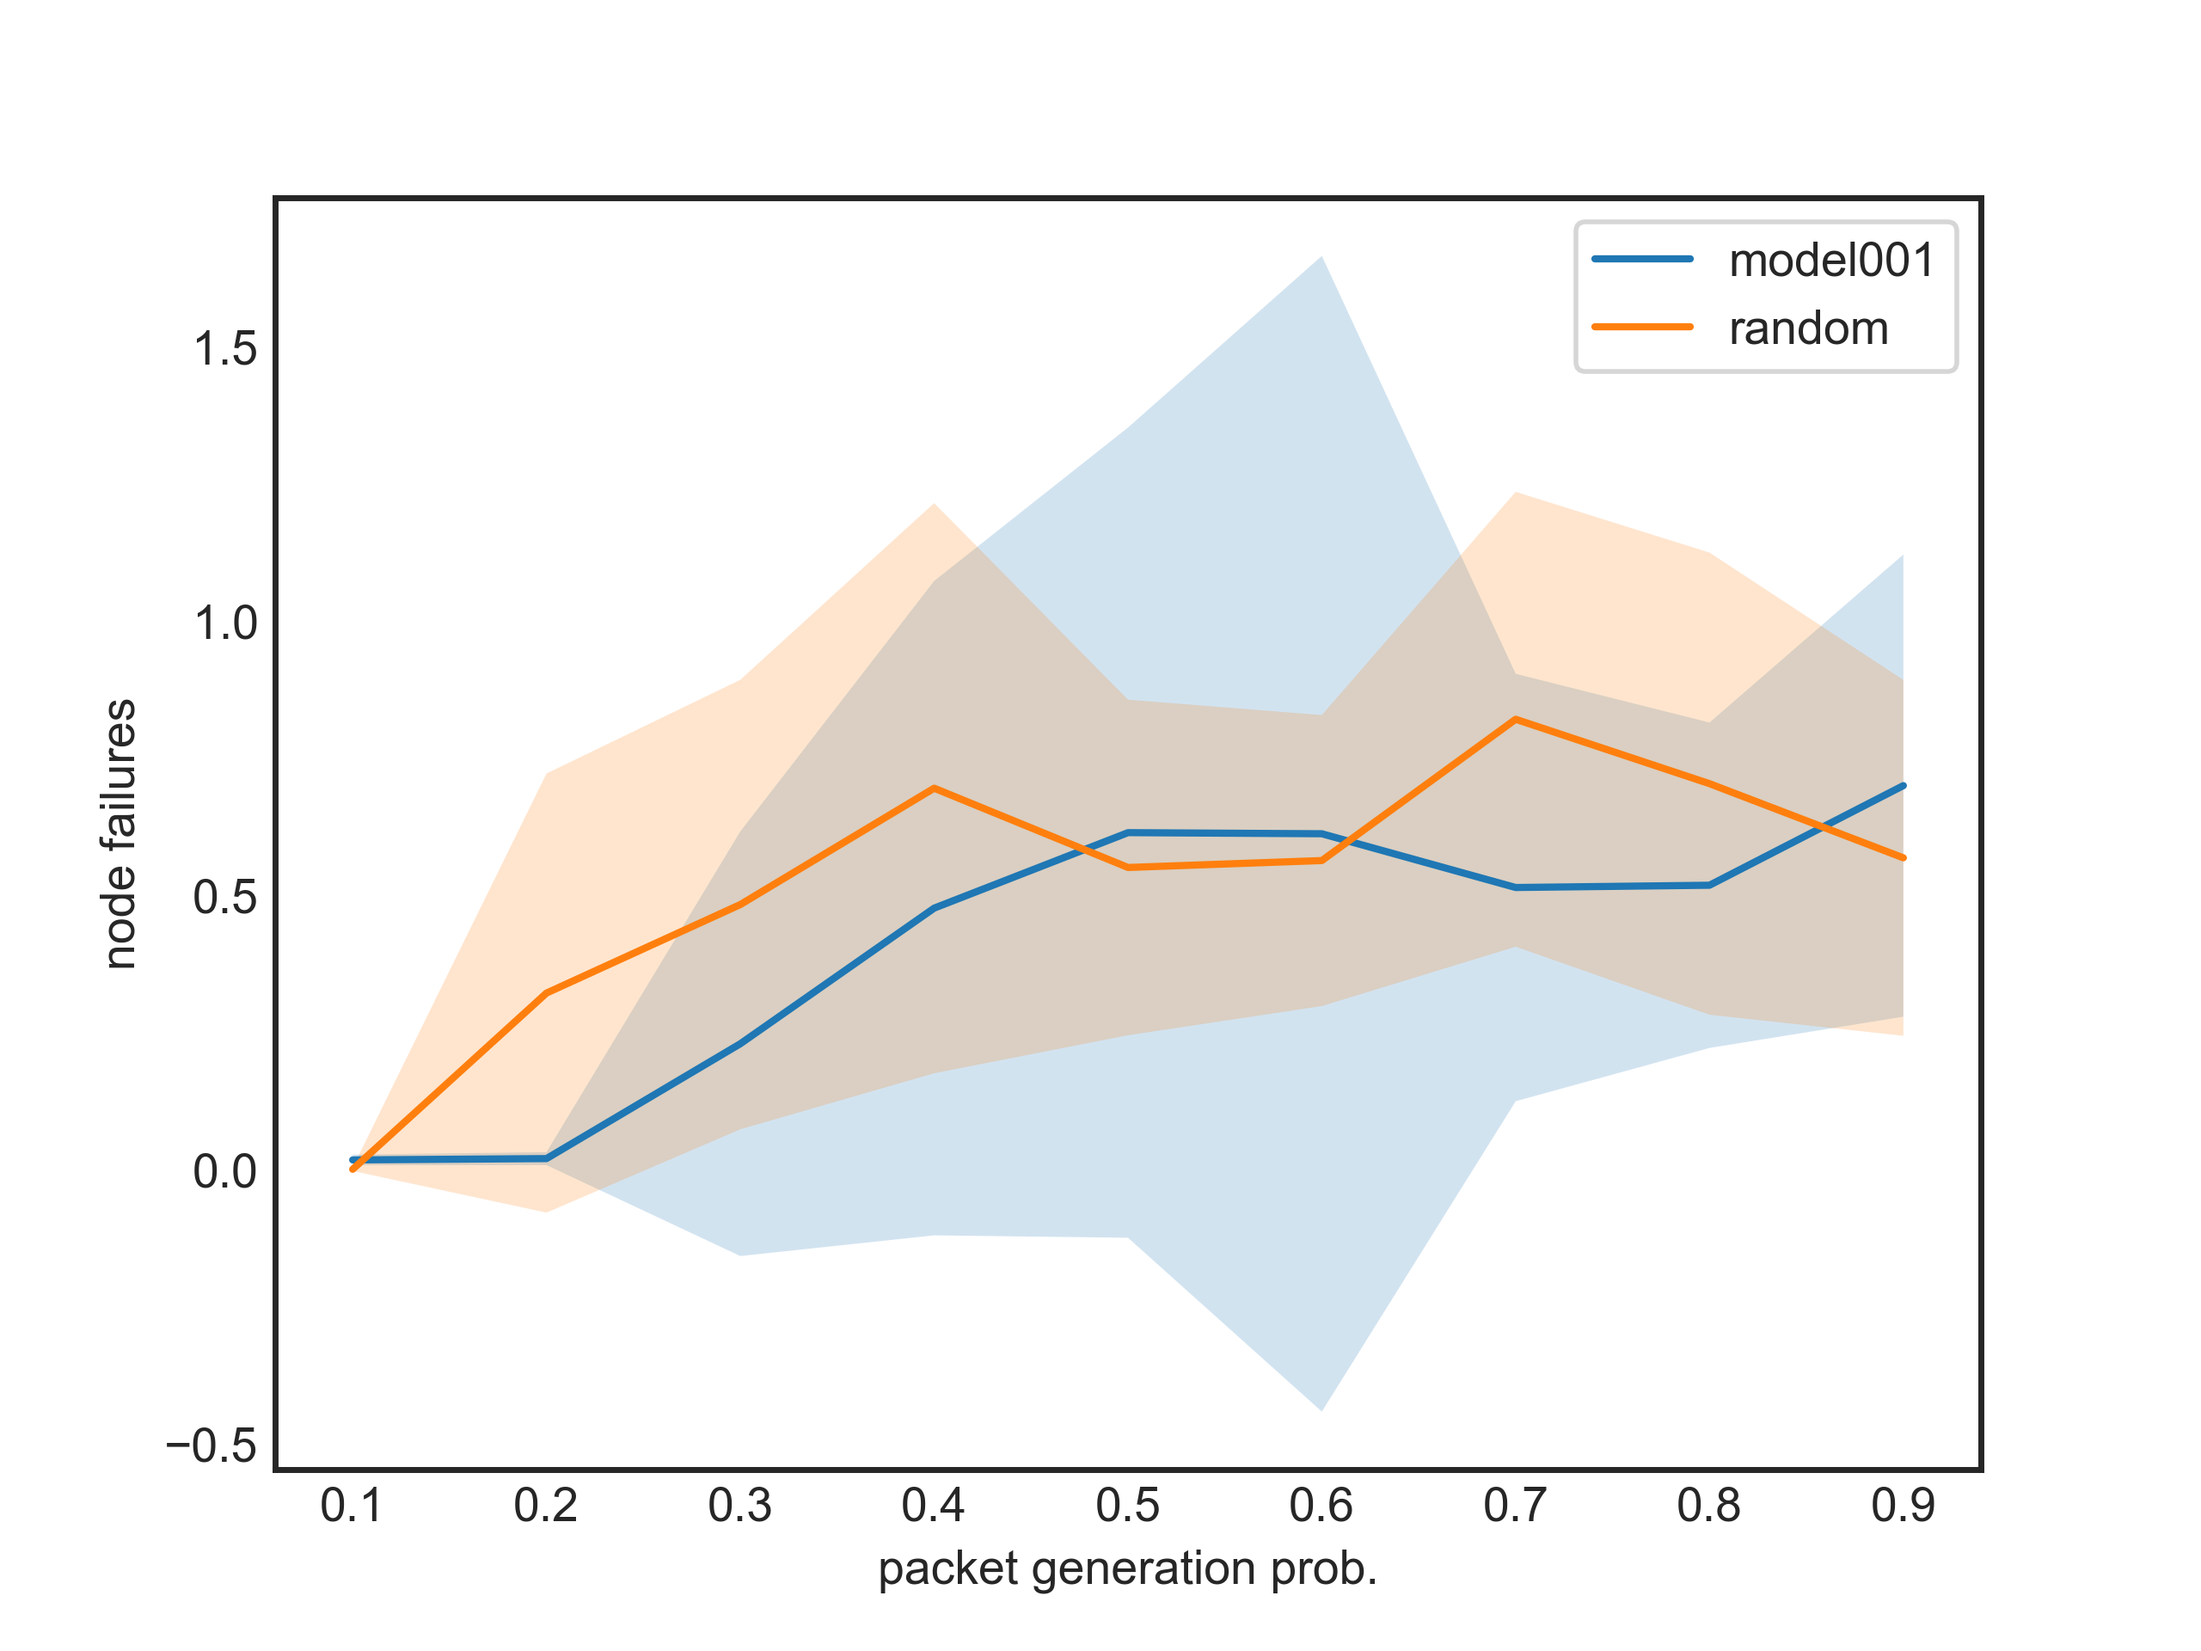
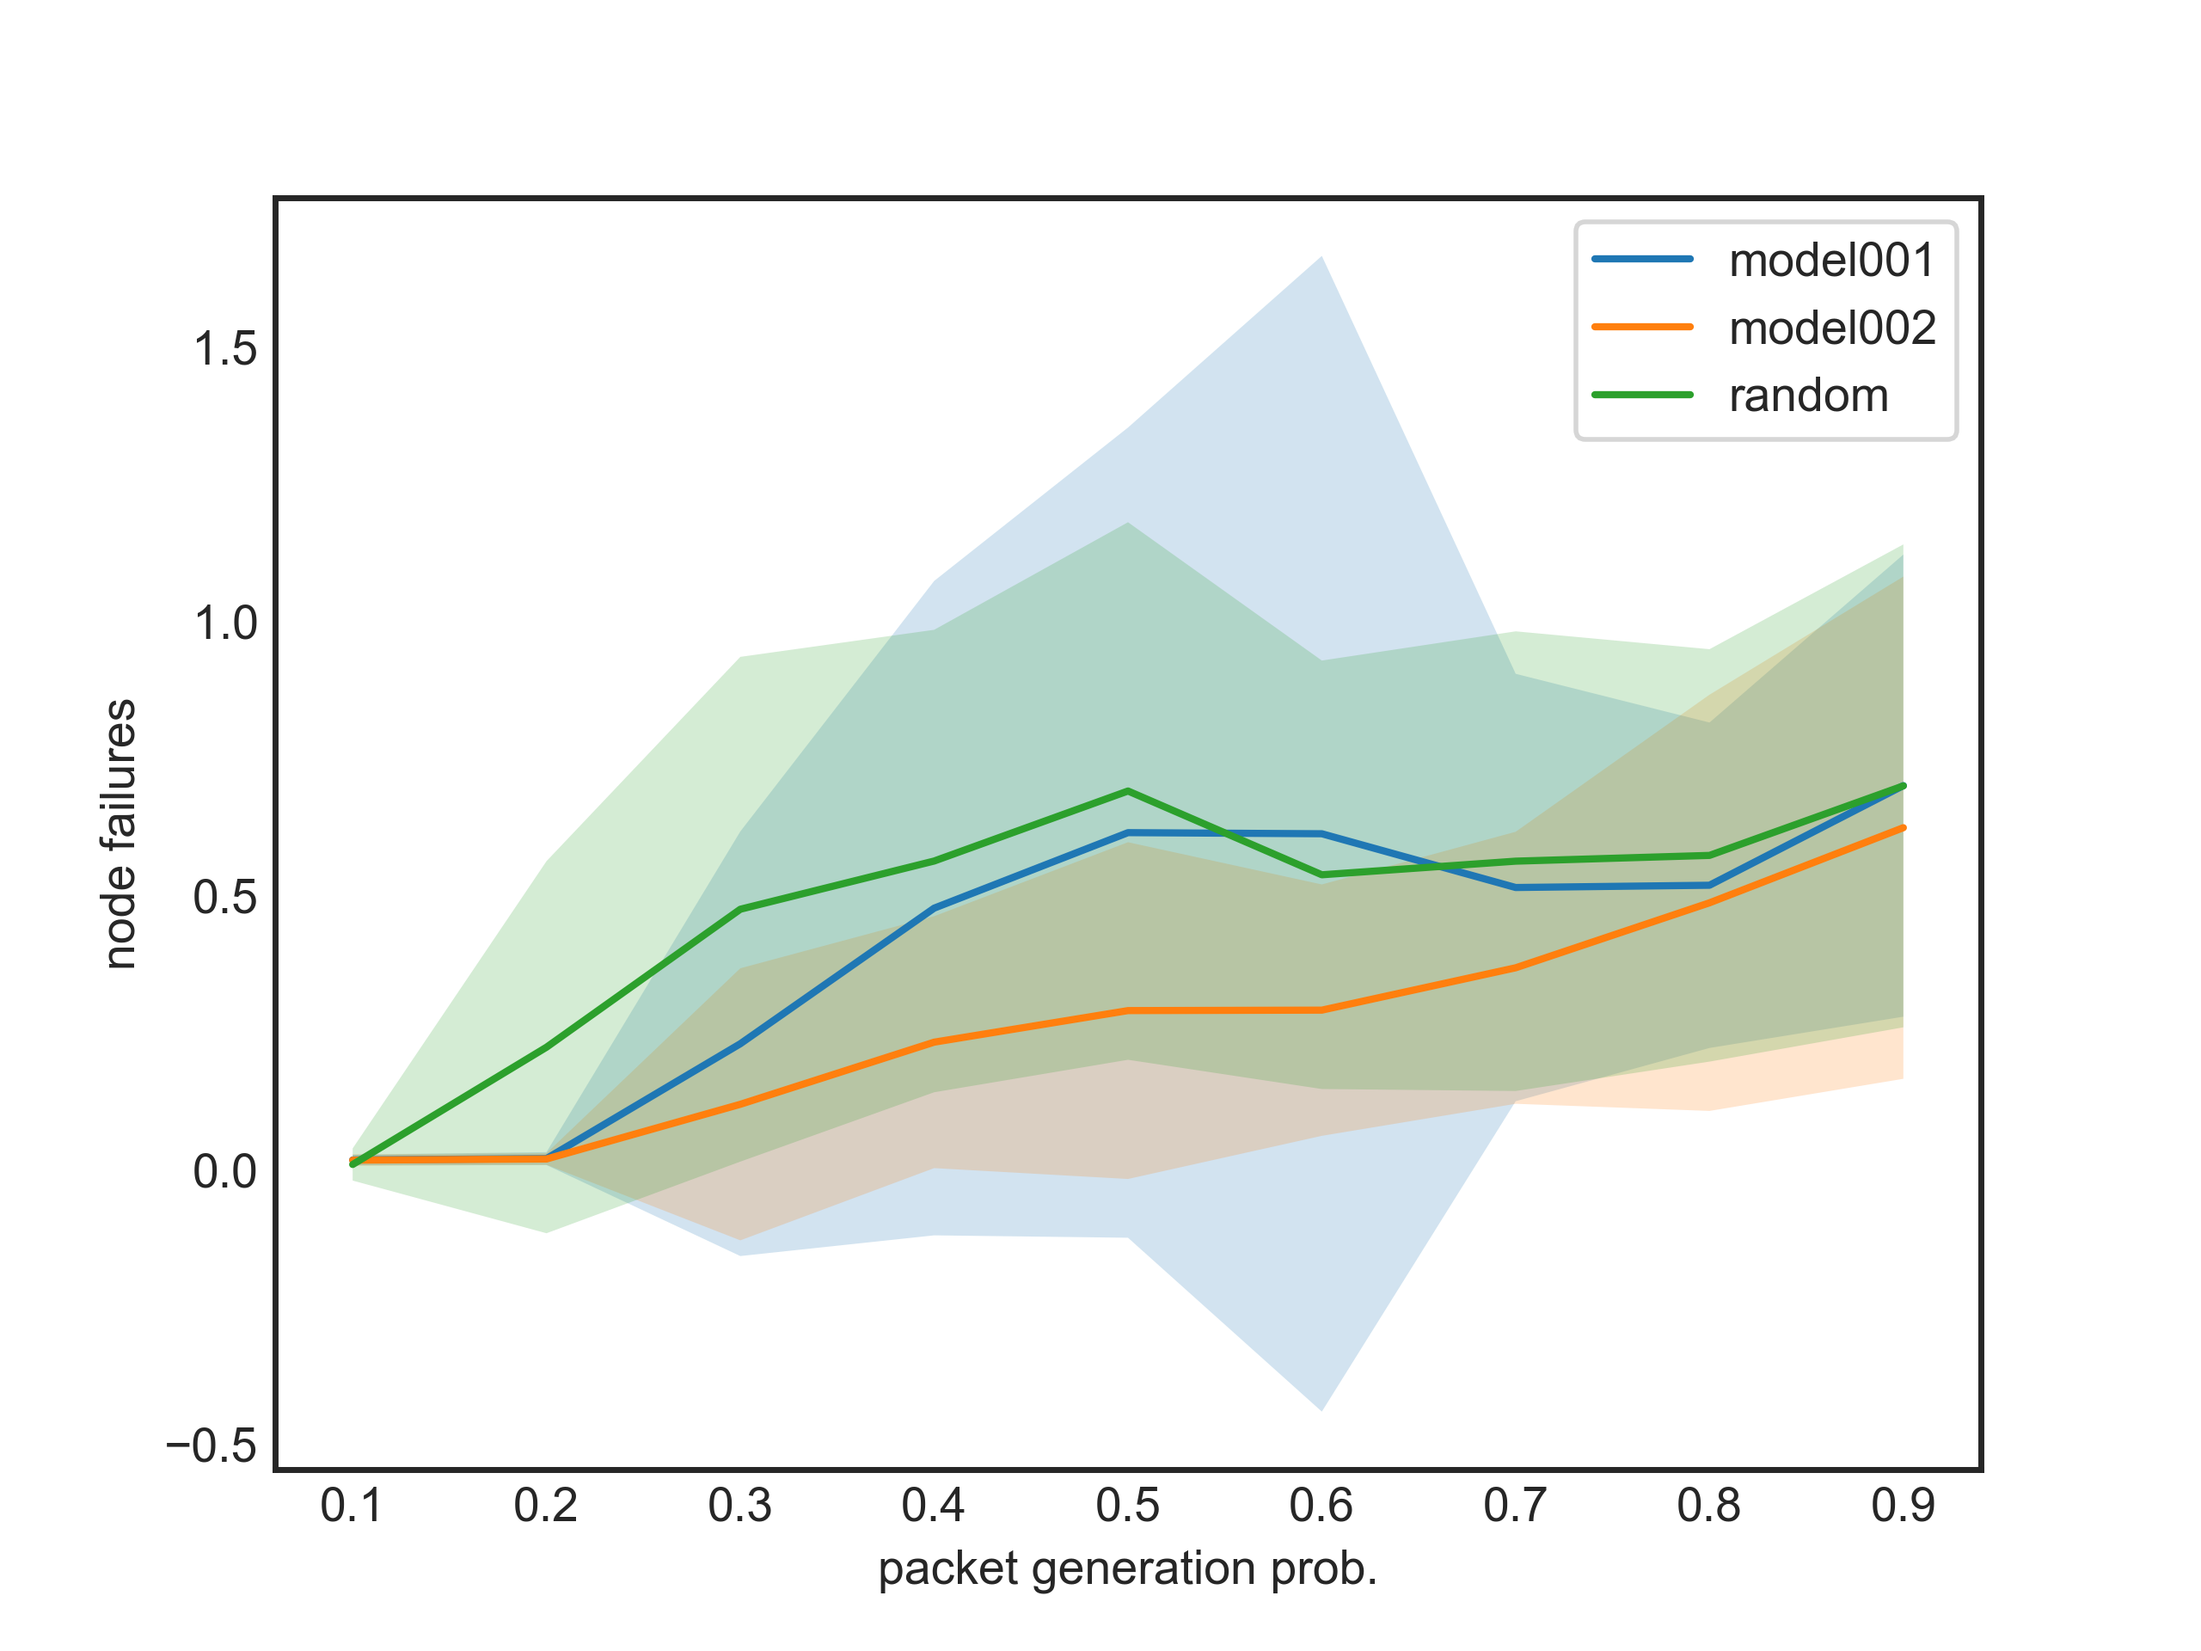
add model002 results

Changed region(s): [[0.1562, 0.2812, 0.875, 0.75], [0.7188, 0.1875, 0.9062, 0.25]]

diff --git a/ept_config.py b/ept_config.py
@@ -1,5 +1,5 @@
 import sys
-sys.path.append('./drl')
+sys.path.append('./model002')
 
 from utils import Config
 import argparse
@@ -9,7 +9,7 @@ class Ept1(Config):
     __dictpath__ = 'ec.ept1'
 
     # ept 1 settings
-    solvers = ['drl', 'random']
+    solvers = ['model002', 'random']
     num_targets = 10
     test_size = 10
     min_num_sensors = 20
@@ -19,13 +19,13 @@ class Ept1(Config):
 class Ept2(Config):
     __dictpath__ = 'ec.ept2'
 
-    solvers = ['drl', 'random']
+    solvers = ['model002', 'random']
     num_targets = 10
     num_sensors = 20
-    test_size = 10
+    test_size = 30
     k_bit = 20000000
     step = 0.1
-    min_prob = 0.1
+    min_prob = 0.3
     max_prob = 1
 
 
@@ -33,10 +33,10 @@ class EptConfig(Config):
     __dictpath__ = 'ec'
 
     # other configs
-    wrsn_config = 'drl/configs/dev.yml'
-    drl_config = 'drl/configs/dev.yml'
+    wrsn_config = 'model002/configs/dev.yml'
+    drl_config = 'model002/configs/dev.yml'
 
-    checkpoint = 'drl/checkpoints/mc_20_10_0/21'
+    checkpoint = 'model002/checkpoints/mc_20_10_0/21'
 
     ept1 = Ept1
     ept2 = Ept2

diff --git a/run.py b/run.py
@@ -1,5 +1,5 @@
 import sys
-sys.path.insert(0, './model001')
+sys.path.insert(0, './model002')
 
 from utils import device, pdump, pload
 from utils import WRSNDataset
@@ -15,13 +15,12 @@ import matplotlib.pyplot as plt
 import argparse
 import os
 
-import model001
+import model002
 
 solvers = {
-    "model001": model001.run,
-    "random": model001.run_random
+    "model002": model002.run,
+    "random": model002.run_random
 }
-
 
 
 def plot_mean_std(x, data, xlabel, ylabel, title, save_dir, plot_std=True):
@@ -127,7 +126,7 @@ def run_ept_1_2(ept, seed=123, save_dir='results', rerun=[]):
         
     x = np.array(idx)
     xlabel = 'no. sensors' if ept == 1 else 'packet generation prob.'
-
+        
     plot_mean_std(x, lifetimes, xlabel, 'network lifetime', 'lifetime', save_dir)
     plot_mean_std(x, node_failures, xlabel, 'node failures', 'node_failures', save_dir)
     plot_mean_std(x, aggregated_ecr, xlabel, 'agg. energy consumption rate', 'agg_ecr', save_dir)

diff --git a/model002.py b/model002.py
@@ -1,0 +1,31 @@
+import sys
+sys.path.insert(0, './model002')
+
+from utils import device, pdump, pload
+from utils import WRSNDataset
+from utils import WrsnParameters as wp, DrlParameters as dp
+from model import MCActor
+import main as model002
+import os
+import torch
+import random_strategy
+
+def run(data_loader, name, save_dir):
+    actor = MCActor(dp.MC_INPUT_SIZE,
+                    dp.DEPOT_INPUT_SIZE,
+                    dp.SN_INPUT_SIZE,
+                    dp.hidden_size,
+                    dp.dropout).to(device)
+
+    save_dir = os.path.join(save_dir, name)
+    checkpoint = 'model002/checkpoints/mc_20_10_1_small'
+    path = os.path.join(checkpoint, 'actor.pt')
+    actor.load_state_dict(torch.load(path, device))
+
+    ret = model002.validate(data_loader, actor, render=False)
+
+    return ret
+
+def run_random(data_loader, name, save_dir):
+    save_dir = os.path.join(save_dir, name)
+    return random_strategy.validate(data_loader, save_dir)
